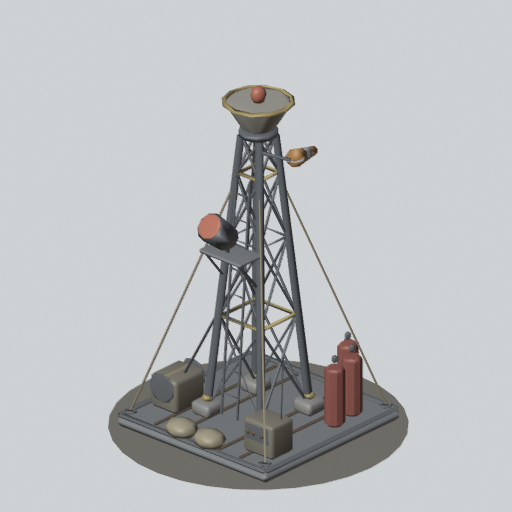
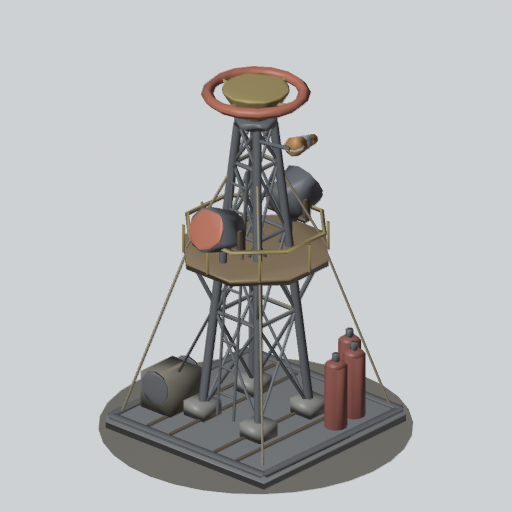
art: Spotter Blimp mast (BLIMP) bolder upgrades - S1 railed octagonal observation deck with a big searchlight, S2 second searchlight, brass rail, brass cone in a glowing beacon halo (#443)

Changed region(s): [[0.1875, 0.125, 0.8125, 0.9688], [0.75, 0.875, 0.7812, 0.9062]]

diff --git a/tools/art/models/tower/_blimp.py b/tools/art/models/tower/_blimp.py
@@ -6,10 +6,12 @@ conventions). The back-right corner (the owner flag's) has no guy line or gear.
 
 Stage 0 (tiers 0-2): pad, footings, the lattice mast with a ladder, the mooring cone, three
                      guy lines, the winch and its cable, two hydrogen cylinders, the windsock.
-Stage 1 (tier 3):    a searchlight on a mast platform, a radio crate with an aerial, a third
-                     cylinder, a sandbag row along the front.
-Stage 2 (tier 5):    brass bands on the mast, brass cone ring and fittings, a glowing beacon
-                     on the mast top and a glowing searchlight lens.
+Stage 1 (tier 3):    an OBSERVATION DECK - a wide railed octagonal deck ringing the mast halfway
+                     up, a big searchlight drum on its front, the guy lines run to its rim, a
+                     third gas cylinder.
+Stage 2 (tier 5):    a second searchlight on the deck's back, a brass deck rail and mast bands,
+                     a brass mooring cone wreathed in a big glowing beacon halo (the crown),
+                     both searchlight lenses glowing.
 """
 
 import importlib.util
@@ -28,6 +30,7 @@ GAS = (170, 60, 50)
 GLOW = (255, 90, 60)
 
 MAST_TOP = 4.25
+DECK = 2.45  # the upgrades' observation deck
 B0, B1 = 0.48, 0.16  # lattice half width at the base / top
 
 
@@ -38,13 +41,15 @@ def half(y):
 def build(lp, stage):
     k = K.Kit(lp)
     hot = stage >= 2
+    lean = stage >= 1  # the upgrades spend their triangles on the deck: plainer base parts
+    bv = 0 if lean else 1
 
     # diamond-plate pad with a raised rim, concrete footings under the mast legs
-    k.add("plate", K.rbox((0, 0.08, 0), (2.7, 0.16, 2.7), bevel=0.06))
-    k.add("metal", *[K.rbox((0, 0.17, sz * 1.3), (2.6, 0.05, 0.1), bevel=0.02) for sz in (-1, 1)],
-          *[K.rbox((sx * 1.3, 0.17, 0), (0.1, 0.05, 2.6), bevel=0.02) for sx in (-1, 1)])
+    k.add("plate", K.rbox((0, 0.08, 0), (2.7, 0.16, 2.7), bevel=0.06 * bv))
+    k.add("metal", *[K.rbox((0, 0.17, sz * 1.3), (2.6, 0.05, 0.1), bevel=0.02 * bv) for sz in (-1, 1)],
+          *[K.rbox((sx * 1.3, 0.17, 0), (0.1, 0.05, 2.6), bevel=0.02 * bv) for sx in (-1, 1)])
     k.add("dark", *[K.rbox((sx * 0.38 * dz + sx * 0.0, 0.17, 0), (0.05, 0.02, 2.4), bevel=0.0) for sx in (-1, 1) for dz in (1, 2)])  # plate tread lines
-    k.add("concrete", *[K.rbox((sx * B0, 0.26, sz * B0), (0.34, 0.2, 0.34), bevel=0.05) for sx in (-1, 1) for sz in (-1, 1)])
+    k.add("concrete", *[K.rbox((sx * B0, 0.26, sz * B0), (0.34, 0.2, 0.34), bevel=0.05 * bv) for sx in (-1, 1) for sz in (-1, 1)])
 
     # the lattice mast: four legs, X braces on every face, a ladder on the front face
     legs, braces = [], []
@@ -73,27 +78,33 @@ def build(lp, stage):
     k.add("metal", *ladder)
 
     # the mooring cone on top (canvas over a steel cup) and its cap
-    k.add("steel", K.cyl((0, MAST_TOP + 0.05, 0), 0.28, 0.1, 10))
-    k.add("body", K.cyl((0, MAST_TOP + 0.3, 0), 0.22, 0.4, 12, top=2.1, bevel=0.04))
-    k.add("brass" if hot else "metal", K.ring((0, MAST_TOP + 0.5, 0), 0.46, 0.04, 12, 3), piece="conering")
+    k.add("steel", K.cyl((0, MAST_TOP + 0.05, 0), 0.28, 0.1, 10, bevel=0.03 * bv))
+    k.add("brass" if hot else "body", K.cyl((0, MAST_TOP + 0.3, 0), 0.22, 0.4, 12, top=2.1, bevel=0.04), piece="cone")
+    if not hot:  # (stage 2: the beacon halo instead)
+        k.add("metal", K.ring((0, MAST_TOP + 0.5, 0), 0.46, 0.04, 12, 3), piece="conering")
 
     # guy lines from the top level to the pad (none to the back-right)
     anchors = [(-1.2, -1.2), (1.2, -1.2), (-1.2, 1.2)]
-    k.add("rope", *[K.rod((ax * 0.15, 3.7, az * 0.15), (ax, 0.24, az), 0.018, 4) for ax, az in anchors])
-    k.add("metal", *[K.ring((ax, 0.22, az), 0.07, 0.025, 8, 3) for ax, az in anchors])
+    if not lean:
+        k.add("rope", *[K.rod((ax * 0.15, 3.7, az * 0.15), (ax, 0.24, az), 0.018, 4) for ax, az in anchors])
+    else:  # the guy lines run from the top to the deck's rim, then down to the pad
+        k.add("rope", *[K.rod((ax * 0.15, 3.7, az * 0.15), (ax * 0.53, DECK + 0.05, az * 0.53), 0.02, 4) for ax, az in anchors],
+              *[K.rod((ax * 0.53, DECK - 0.05, az * 0.53), (ax, 0.24, az), 0.02, 4) for ax, az in anchors])
+    if not lean:
+        k.add("metal", *[K.ring((ax, 0.22, az), 0.07, 0.025, 8, 3) for ax, az in anchors])
 
     # cable winch at the right-front, cable up the mast to the cone
     wx, wz = 0.95, -0.55
-    k.add("canvasdark", K.rbox((wx, 0.42, wz), (0.5, 0.5, 0.6), bevel=0.06))
+    k.add("canvasdark", K.rbox((wx, 0.42, wz), (0.5, 0.5, 0.6), bevel=0.06 * bv))
     k.add("rope", K.cyl((wx, 0.52, wz), 0.16, 0.56, 10, rot=(90, 0, 0)))
-    k.add("metal", *[K.cyl((wx, 0.52, wz + sz * 0.31), 0.22, 0.04, 10, rot=(90, 0, 0)) for sz in (-1, 1)])
+    k.add("metal", *[K.cyl((wx, 0.52, wz + sz * 0.31), 0.22, 0.04, 10, rot=(90, 0, 0), bevel=0.03 * bv) for sz in (-1, 1)])
     k.add("cable", K.rod((wx - 0.1, 0.62, wz), (0.12, 2.4, -0.1), 0.02, 4), K.rod((0.12, 2.4, -0.1), (0.05, MAST_TOP + 0.1, 0), 0.02, 4))
 
     # hydrogen cylinders at the back-left, a windsock off the mast top
     gas = [(-1.0, 0.75), (-0.7, 1.0)] + ([(-1.05, 0.35)] if stage >= 1 else [])
-    k.add("gas", *[K.cyl((x, 0.62, z), 0.15, 0.85, 10, bevel=0.06) for x, z in gas],
+    k.add("gas", *[K.cyl((x, 0.62, z), 0.15, 0.85, 10, bevel=0.06 * bv) for x, z in gas],
           *[K.ell((x, 1.05, z), (0.15, 0.08, 0.15), 8, 3) for x, z in gas])
-    k.add("metal", *[K.cyl((x, 1.16, z), 0.05, 0.1, 6) for x, z in gas])
+    k.add("metal", *[K.cyl((x, 1.16, z), 0.05, 0.1, 6, bevel=0.03 * bv) for x, z in gas])
     k.add("steel", K.rod((-B1, MAST_TOP - 0.15, -B1), (-0.75, MAST_TOP - 0.05, -0.2), 0.03, 4))
     sock = []
     for i in range(3):
@@ -105,30 +116,37 @@ def build(lp, stage):
 
     brass = []
     if stage >= 1:
-        # a platform with a searchlight on the mast's front
-        py = 2.75
-        k.add("plate", K.rbox((0, py - 0.05, -0.55), (0.75, 0.06, 0.45), bevel=0.02))
-        k.add("metal", K.rod((-0.3, py - 0.05, -0.75), (-0.3, py - 0.5, -0.38), 0.025, 4), K.rod((0.3, py - 0.05, -0.75), (0.3, py - 0.5, -0.38), 0.025, 4))
-        k.add("steel", K.rod((0.0, py + 0.2, -0.62), (0.0, py + 0.48, -0.95), 0.18, 10, top=1.15),
-              K.rod((0.0, py, -0.62), (0.0, py + 0.2, -0.62), 0.04, 4))
-        k.add("glow" if hot else "lens", K.cyl((0.0, py + 0.5, -0.97), 0.18, 0.03, 10, rot=(-50, 0, 0)), piece="lens")
-        # a radio crate with an aerial at the front-left
-        k.add("canvasdark", K.rbox((-0.9, 0.42, -0.8), (0.55, 0.5, 0.45), bevel=0.05))
-        k.add("metal", K.rbox((-0.9, 0.5, -1.03), (0.4, 0.22, 0.03), bevel=0.01), K.rod((-1.08, 0.67, -0.75), (-1.12, 1.6, -0.75), 0.015, 4))
-        k.add("dark", *[K.cyl((-0.9 + dx, 0.5, -1.05), 0.04, 0.03, 6, rot=(90, 0, 0)) for dx in (-0.1, 0.05, 0.15)])
-        # sandbags along the front edge
-        k.add("sand", *[K.pillow((x, 0.3, -1.25), 0.5, 0.0) for x in (-0.25, 0.25)])
+        # the observation deck: an octagonal plate ringing the mast, struts, a railing
+        k.add("deck", K.cyl((0, DECK, 0), 0.98, 0.12, 8, bevel=0, rot=(0, 22.5, 0)))
+        k.add("steel", *[K.rod((math.cos(a) * half(1.6) * 1.3, 1.6, math.sin(a) * half(1.6) * 1.3),
+                               (math.cos(a) * 0.85, DECK - 0.05, math.sin(a) * 0.85), 0.035, 4)
+                         for a in (i * math.pi / 2 + math.pi / 4 for i in range(4))])
+        rail = [K.ring((0, DECK + 0.38, 0), 0.92, 0.035, 8, 3, rot=(0, 22.5, 0))]
+        rail += [K.rod((math.cos(a) * 0.92, DECK, math.sin(a) * 0.92), (math.cos(a) * 0.92, DECK + 0.38, math.sin(a) * 0.92), 0.025, 4)
+                 for a in (i * math.pi / 4 for i in range(8))]
+        k.add("brass" if hot else "metal", *rail, piece="rail")
+        # a big searchlight drum on the deck's front (and one on its back at stage 2)
+        lights = [(-0.62, -1)] + ([(0.62, 1)] if hot else [])
+        lenses = []
+        for lz, fz in lights:
+            k.add("steel", K.rod((0, DECK, lz), (0, DECK + 0.3, lz), 0.05, 6),
+                  K.rod((0, DECK + 0.45, lz - fz * 0.12), (0, DECK + 0.62, lz + fz * 0.3), 0.27, 10, top=1.12))
+            k.add("dark", K.rbox((0, DECK + 0.32, lz), (0.66, 0.06, 0.12), bevel=0),
+                  *[K.rbox((sx * 0.31, DECK + 0.45, lz), (0.05, 0.3, 0.1), bevel=0) for sx in (-1, 1)])
+            lenses.append(K.cyl((0, DECK + 0.63, lz + fz * 0.31), 0.27, 0.04, 10, rot=(fz * 60, 0, 0), bevel=0))
+        k.add("glow" if hot else "lens", *lenses, piece="lens")
 
     if hot:
         brass += [K.ring((0, y, 0), half(y) * 1.42, 0.035, 4, 3, rot=(0, 45, 0)) for y in (1.6, 3.7)]
-        brass += [K.cyl((sx * B0, 0.4, sz * B0), 0.09, 0.08, 6) for sx in (-1, 1) for sz in (-1, 1)]
-        k.add("glow", K.ell((0, MAST_TOP + 0.6, 0), (0.11, 0.13, 0.11), 8, 5), piece="beacon")
-        brass.append(K.rod((0, MAST_TOP + 0.5, 0), (0, MAST_TOP + 0.55, 0), 0.08, 6))
+        # the crown: a big glowing beacon halo round the brass mooring cone
+        k.add("glow", K.ring((0, MAST_TOP + 0.42, 0), 0.62, 0.08, 16, 4), piece="beacon")
+        brass += [K.rod((math.cos(a) * 0.3, MAST_TOP + 0.36, math.sin(a) * 0.3), (math.cos(a) * 0.56, MAST_TOP + 0.42, math.sin(a) * 0.56), 0.03, 4)
+                  for a in (i * math.pi / 2 for i in range(4))]
         k.add("brass", *brass)
 
     colors = {
         "body": CANVAS, "canvas": (236, 232, 222), "canvasdark": (120, 112, 88), "plate": PLATE, "metal": K.METAL,
         "steel": STEEL, "dark": K.DARK, "concrete": (150, 146, 138), "rope": K.ROPE, "cable": (40, 40, 42),
-        "sock": SOCK, "gas": GAS, "lens": (220, 220, 200), "sand": K.SAND, "brass": K.BRASS, "glow": GLOW,
+        "sock": SOCK, "gas": GAS, "deck": (150, 108, 64), "lens": (220, 220, 200), "sand": K.SAND, "brass": K.BRASS, "glow": GLOW,
     }
     return k.model("11d", colors, "BLIMP", stage)
